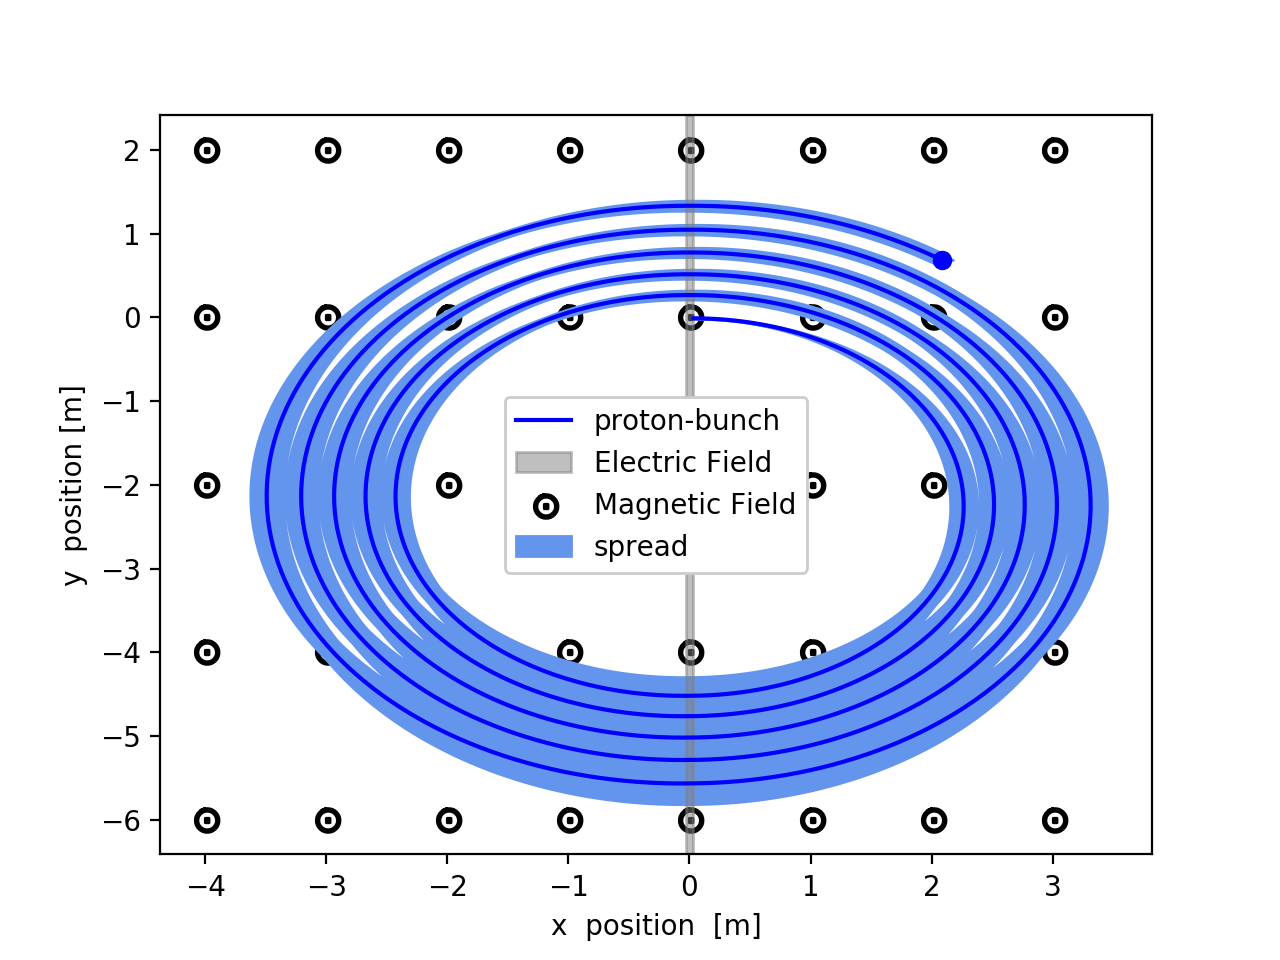
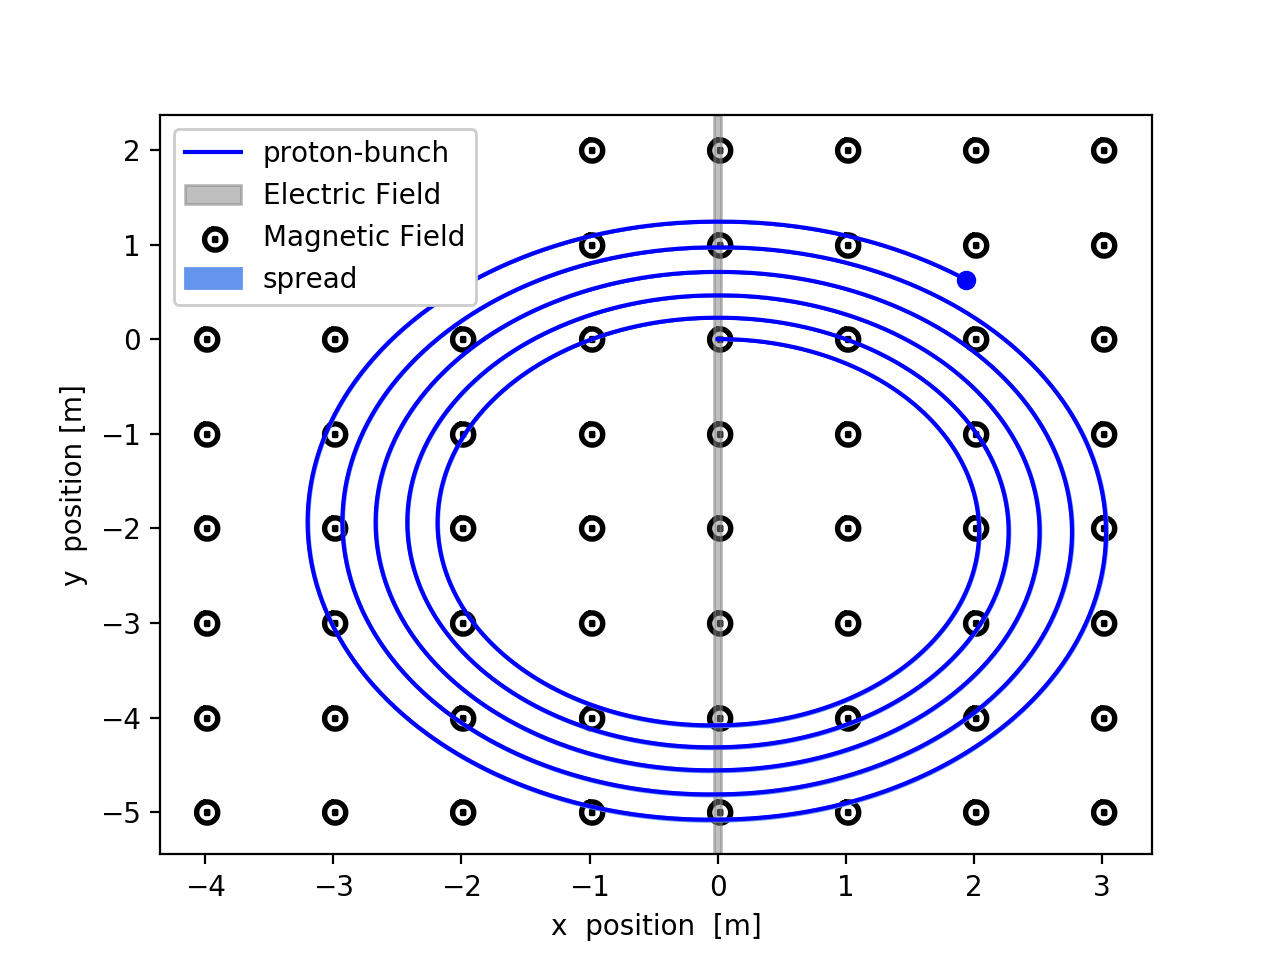
Added revolutions to plots

diff --git a/Project/main.py b/Project/main.py
@@ -46,8 +46,11 @@ for bunch in Data:
     bunch_spread_x.append(bunch.spread()[0])
     bunch_spread_y.append(bunch.spread()[1])
 
+time_period = 2*const.pi*protons.particleMass / (protons.particleCharge*field.magneticMag())
+revolutions = np.linspace(0,round(timeSeries[-1]/time_period),len(timeSeries))
+
 final = [x[-1], y[-1]]
-magneticX, magneticY = np.meshgrid(list(range(-4,4,1)), list(range(-5,5,1)))
+magneticX, magneticY = np.meshgrid(list(range(-4,4,1)), list(range(-5,3,1)))
 
 
 log.logger.info('creating plots')
@@ -63,11 +66,16 @@ plt.xlabel(r'x  position  [m]')
 plt.ylabel(r'y  position [m]')
 plt.legend(loc='upper left',framealpha=1)
 
+
 plt.figure('Spread')
 plt.plot(timeSeries, bunch_spread_x, label=r'$\sigma_{x}$')
 plt.plot(timeSeries, bunch_spread_y, label=r'$\sigma_{y}$')
 plt.xlabel('time [s]')
 plt.ylabel('spread [m]')
-plt.legend(loc='best',framealpha=1)
+ax2 = plt.twiny()
+ax2.set_xlabel('Revolutions')
+ax2.plot(revolutions,bunch_spread_x, label=r'$\sigma_{x}$')
+ax2.plot(revolutions,bunch_spread_y, label=r'$\sigma_{y}$')
+ax2.legend(loc='upper left',framealpha=1)
 
 plt.show()
